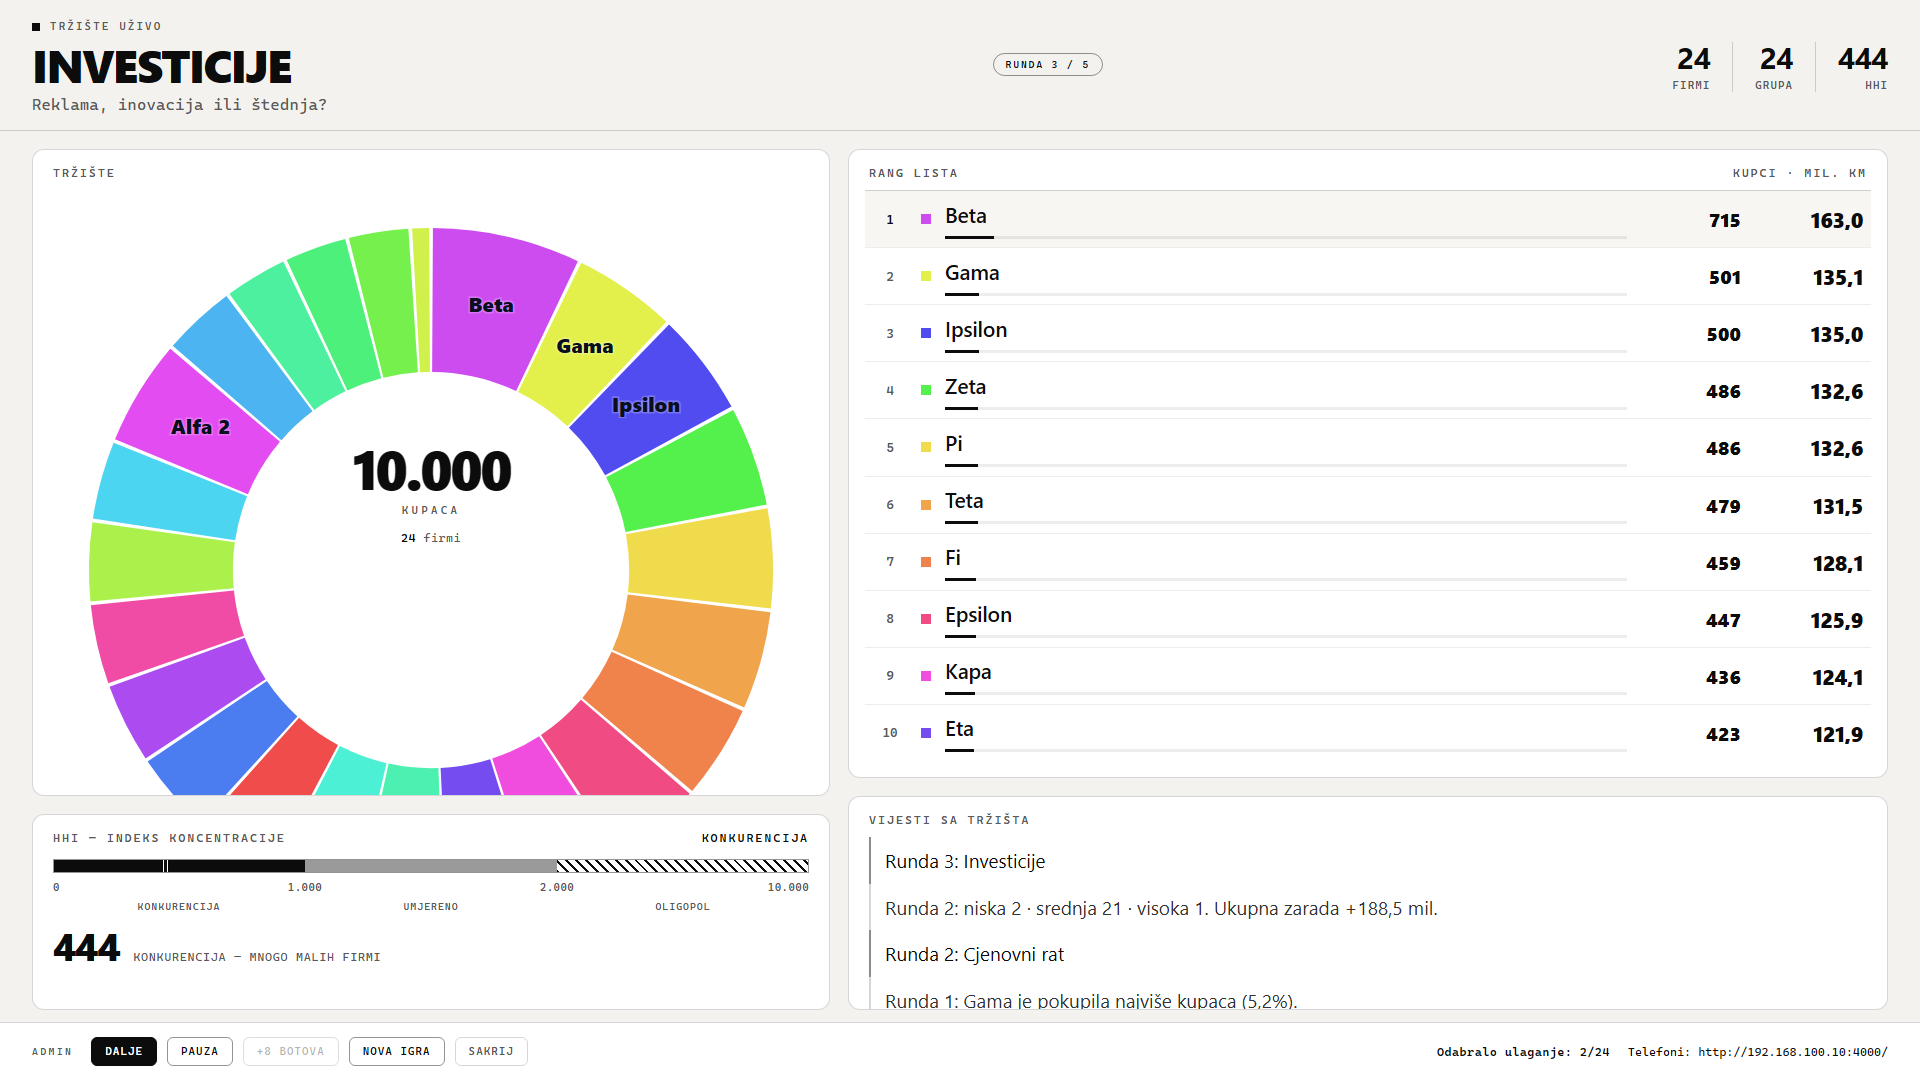
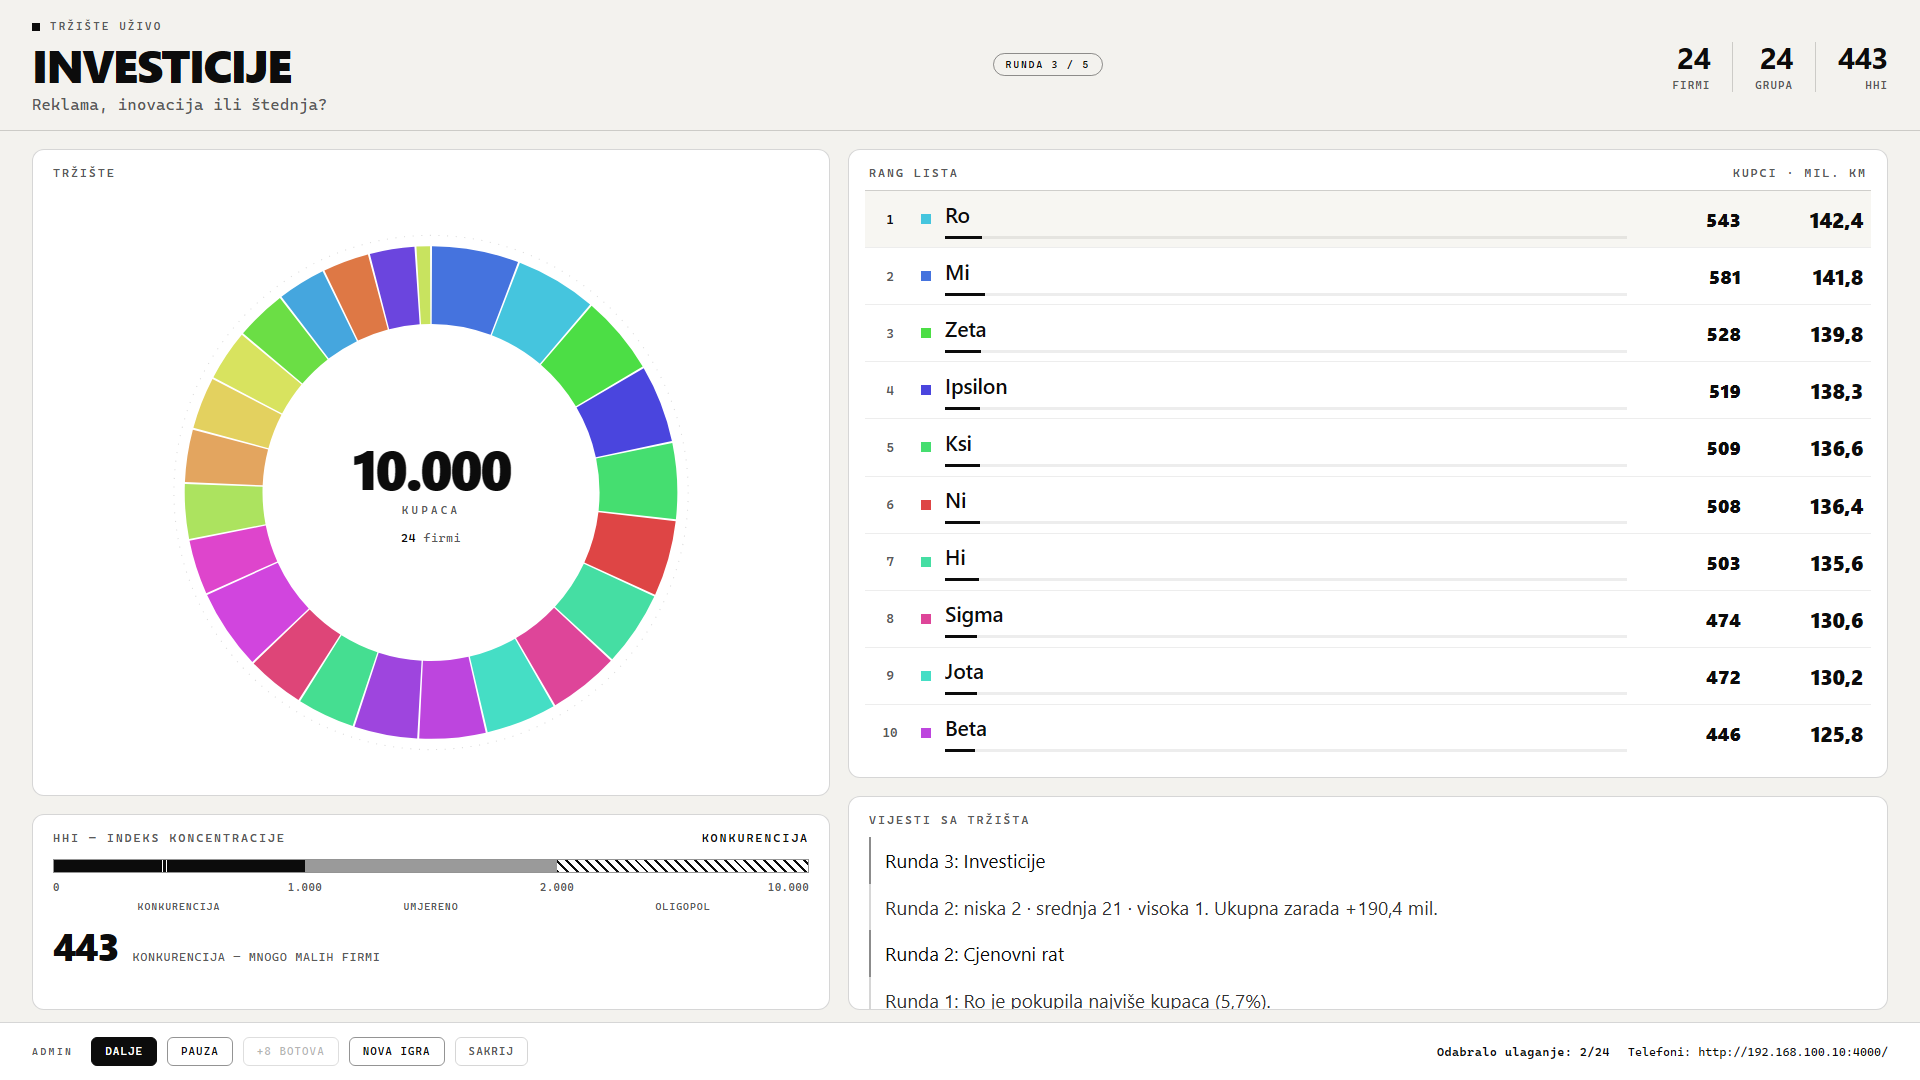
Graf: novi donut (tanji prsten, oznake van kruga, istaknut lider, animacija)

diff --git a/public/screen.js b/public/screen.js
@@ -62,6 +62,9 @@ function renderHeader() {
 }
 
 /* --------------------------------- PIE ----------------------------------- */
+const PIE = { parts: [], cur: new Map(), target: new Map(), start: 0, raf: 0, order: new Map(), seq: 0 };
+const PIE_MS = 520;
+
 function polar(cx, cy, r, a) {
   return [cx + r * Math.cos(a), cy + r * Math.sin(a)];
 }
@@ -75,61 +78,183 @@ function donutPath(cx, cy, rOut, rIn, a0, a1) {
     `L${x2.toFixed(2)} ${y2.toFixed(2)} A${rIn} ${rIn} 0 ${large} 0 ${x3.toFixed(2)} ${y3.toFixed(2)} Z`;
 }
 
-function renderPie() {
-  const svg = $('pie');
-  const total = S.meta.totalCustomers;
-  const cx = 280, cy = 280, rOut = 252, rIn = 146;
-  const gap = 0.011;
-  let parts = [];
+function hslRgb(color) {
+  const m = /hsl\(\s*([\d.]+)[ ,]+([\d.]+)%[ ,]+([\d.]+)%/.exec(color || '');
+  if (!m) return null;
+  const h = parseFloat(m[1]) / 360;
+  const s = parseFloat(m[2]) / 100;
+  const l = parseFloat(m[3]) / 100;
+  if (s === 0) return [l, l, l];
+  const q = l < 0.5 ? l * (1 + s) : l + s - l * s;
+  const p = 2 * l - q;
+  const f = t => {
+    t = (t + 1) % 1;
+    if (t < 1 / 6) return p + (q - p) * 6 * t;
+    if (t < 1 / 2) return q;
+    if (t < 2 / 3) return p + (q - p) * (2 / 3 - t) * 6;
+    return p;
+  };
+  return [f(h + 1 / 3), f(h), f(h - 1 / 3)];
+}
+function labelColor(color) {
+  const rgb = hslRgb(color);
+  if (!rgb) return '#0c0c0c';
+  const lum = 0.2126 * rgb[0] + 0.7152 * rgb[1] + 0.0722 * rgb[2];
+  return lum > 0.58 ? '#0c0c0c' : '#ffffff';
+}
 
+/* stabilan redoslijed kriški (ne skaču kad se udjeli mijenjaju) */
+function pieOrderIndex(id) {
+  if (!PIE.order.has(id)) PIE.order.set(id, PIE.seq++);
+  return PIE.order.get(id);
+}
+
+function pieParts() {
   if (S.phase === 'lobby') {
     const slots = 30;
+    const parts = [];
     for (let i = 0; i < slots; i++) {
       const p = S.players[i];
       parts.push({
+        id: 'slot' + i,
         share: 1 / slots,
-        color: p ? p.color : 'rgba(0,0,0,0.07)',
+        color: p ? p.color : '#ecebe6',
         name: p ? p.name : '',
         empty: !p,
       });
     }
-  } else {
-    const groups = S.groups.filter(g => g.customers > 0);
-    if (!groups.length) {
-      parts = [{ share: 1, color: 'rgba(0,0,0,0.07)', name: '', empty: true }];
-    } else {
-      parts = groups.map(g => ({ share: g.customers / total, color: g.color, name: g.name, members: g.members, sharePct: g.share }));
-    }
+    return parts;
   }
+  const groups = S.groups.filter(g => g.customers > 0);
+  if (!groups.length) return [{ id: 'empty', share: 1, color: '#ecebe6', name: '', empty: true }];
+  const total = S.meta.totalCustomers;
+  const parts = groups.map(g => ({
+    id: g.id,
+    share: g.customers / total,
+    color: g.color,
+    name: g.name,
+    members: g.members,
+    empty: false,
+  }));
+  parts.sort((a, b) => pieOrderIndex(a.id) - pieOrderIndex(b.id));
+  return parts;
+}
 
+function pieTick(now) {
+  const t = Math.min(1, (now - PIE.start) / PIE_MS);
+  const e = 1 - Math.pow(1 - t, 3);
+  for (const [id, to] of PIE.target) {
+    const from = PIE.cur.has(id) ? PIE.cur.get(id) : 0;
+    PIE.cur.set(id, from + (to - from) * e);
+  }
+  for (const id of [...PIE.cur.keys()]) if (!PIE.target.has(id)) PIE.cur.delete(id);
+  drawPie();
+  if (t < 1) {
+    PIE.raf = requestAnimationFrame(pieTick);
+  } else {
+    for (const [id, to] of PIE.target) PIE.cur.set(id, to);
+    PIE.raf = 0;
+    drawPie();
+  }
+}
+
+function drawPie() {
+  const svg = $('pie');
+  if (!PIE.parts.length) return;
+  const cx = 280, cy = 280, rOut = 228, rIn = 156, rFrame = 238;
+  const gap = 0.008;
   const out = [];
-  if (parts.length === 1) {
-    out.push(`<circle cx="${cx}" cy="${cy}" r="${(rOut + rIn) / 2}" fill="none" stroke="${parts[0].color}" stroke-width="${rOut - rIn}"></circle>`);
-  } else {
-    let a = -Math.PI / 2;
-    for (const part of parts) {
-      const span = part.share * Math.PI * 2;
-      const a0 = a + gap / 2;
-      const a1 = a + span - gap / 2;
-      if (a1 > a0) {
-        out.push(`<path class="slice" d="${donutPath(cx, cy, rOut, rIn, a0, a1)}" fill="${part.color}" opacity="${part.empty ? 0.55 : 1}"></path>`);
+  const trunc = (s, n) => (s.length > n ? s.slice(0, n - 1) + '…' : s);
+
+  out.push(`<circle cx="${cx}" cy="${cy}" r="${rFrame}" fill="none" stroke="rgba(0,0,0,.14)" stroke-width="1" stroke-dasharray="1 7"></circle>`);
+
+  let a = -Math.PI / 2;
+  let ta = -Math.PI / 2;
+  let leader = null, leaderA0 = 0, leaderA1 = 0;
+  const labels = [];
+
+  for (const part of PIE.parts) {
+    const cur = PIE.cur.has(part.id) ? PIE.cur.get(part.id) : part.share;
+    const target = PIE.target.has(part.id) ? PIE.target.get(part.id) : part.share;
+    const span = cur * Math.PI * 2;
+    const tspan = target * Math.PI * 2;
+    const a0 = a + gap / 2;
+    const a1 = a + span - gap / 2;
+
+    if (span > 0.0001) {
+      if (cur >= 0.9995) {
+        out.push(`<circle cx="${cx}" cy="${cy}" r="${(rOut + rIn) / 2}" fill="none" stroke="${part.color}" stroke-width="${rOut - rIn}"></circle>`);
+      } else if (a1 > a0) {
+        out.push(`<path d="${donutPath(cx, cy, rOut, rIn, a0, a1)}" fill="${part.color}" opacity="${part.empty ? 0.9 : 1}"></path>`);
       }
-      // ime unutar velikih komada
-      if (!part.empty && part.share >= 0.05) {
-        const mid = a + span / 2;
-        const [tx, ty] = polar(cx, cy, (rOut + rIn) / 2, mid);
-        const nm = part.name.length > 13 ? part.name.slice(0, 12) + '…' : part.name;
-        out.push(`<text x="${tx.toFixed(1)}" y="${ty.toFixed(1)}" fill="#08101f" font-size="15" font-weight="800" text-anchor="middle" dominant-baseline="middle" style="paint-order:stroke" stroke="rgba(255,255,255,.22)" stroke-width="2">${escapeXml(nm)}</text>`);
-        if (part.share >= 0.09 && part.share <= 0.45) {
-          out.push(`<text x="${tx.toFixed(1)}" y="${(ty + 17).toFixed(1)}" fill="rgba(8,16,31,.72)" font-size="12" font-weight="700" text-anchor="middle">${pct(part.share)}</text>`);
-        }
-      }
-      a += span;
+    }
+
+    if (!part.empty && S.phase !== 'lobby' && target >= 0.07 && target < 0.9995) {
+      labels.push({ name: part.name, share: target, mid: ta + tspan / 2 });
+    }
+    if (target > (leader ? leader.share : 0)) {
+      leader = { share: target, color: part.color };
+      leaderA0 = ta;
+      leaderA1 = ta + tspan;
+    }
+    a += span;
+    ta += tspan;
+  }
+
+  // istaknut lider: luk spolja
+  if (leader && S.phase !== 'lobby' && leader.share >= 0.1 && leader.share < 0.9995) {
+    const a0 = leaderA0 + gap;
+    const a1 = leaderA1 - gap;
+    const large = (a1 - a0) > Math.PI ? 1 : 0;
+    const [x0, y0] = polar(cx, cy, rOut + 6, a0);
+    const [x1, y1] = polar(cx, cy, rOut + 6, a1);
+    out.push(`<path d="M${x0.toFixed(2)} ${y0.toFixed(2)} A${rOut + 6} ${rOut + 6} 0 ${large} 1 ${x1.toFixed(2)} ${y1.toFixed(2)}" fill="none" stroke="#0c0c0c" stroke-width="3" stroke-linecap="round"></path>`);
+  }
+
+  // oznake van prstena, sa tankim vezama; najviše 6 najvećih
+  labels.sort((x, y) => y.share - x.share);
+  const shown = labels.slice(0, 6);
+  const items = shown.map(l => {
+    const cos = Math.cos(l.mid);
+    const side = cos >= 0 ? 1 : -1;
+    return {
+      ...l, side,
+      x: cx + side * (rFrame + 16),
+      y: cy + Math.sin(l.mid) * (rFrame + 14),
+    };
+  });
+  for (const side of [1, -1]) {
+    const list = items.filter(i => i.side === side).sort((p, q) => p.y - q.y);
+    for (let i = 0; i < list.length; i++) {
+      const minY = i === 0 ? 24 : list[i - 1].y + 38;
+      if (list[i].y < minY) list[i].y = minY;
+    }
+    const overflow = list.length ? list[list.length - 1].y - 536 : 0;
+    if (overflow > 0) for (const it of list) it.y -= overflow;
+    for (const it of list) {
+      const ax = cx + Math.cos(it.mid) * (rFrame + 4);
+      const ay = cy + Math.sin(it.mid) * (rFrame + 4);
+      out.push(`<line x1="${ax.toFixed(1)}" y1="${ay.toFixed(1)}" x2="${(it.x - it.side * 8).toFixed(1)}" y2="${(it.y - 6).toFixed(1)}" stroke="#0c0c0c" stroke-opacity="0.28" stroke-width="1"></line>`);
+      out.push(`<text x="${it.x.toFixed(1)}" y="${it.y.toFixed(1)}" fill="#0c0c0c" font-size="15" font-weight="700" text-anchor="${it.side > 0 ? 'start' : 'end'}" dominant-baseline="middle" style="font-family:var(--font)">${escapeXml(trunc(it.name, 15))}</text>`);
+      out.push(`<text x="${it.x.toFixed(1)}" y="${(it.y + 17).toFixed(1)}" fill="#5a5a5a" font-size="12" text-anchor="${it.side > 0 ? 'start' : 'end'}" dominant-baseline="middle" style="font-family:var(--mono)">${pct(it.share)}</text>`);
     }
   }
-  svg.innerHTML = out.join('');
 
-  const shownCustomers = S.phase === 'lobby' ? total : S.totals.customers;
+  svg.innerHTML = out.join('');
+}
+function renderPie() {
+  PIE.parts = pieParts();
+  PIE.target = new Map(PIE.parts.map(p => [p.id, p.share]));
+  for (const [id, s] of PIE.target) if (!PIE.cur.has(id)) PIE.cur.set(id, 0);
+  if (SNAP) {
+    for (const [id, s] of PIE.target) PIE.cur.set(id, s);
+    drawPie();
+  } else {
+    PIE.start = performance.now();
+    if (!PIE.raf) PIE.raf = requestAnimationFrame(pieTick);
+  }
+
+  const shownCustomers = S.phase === 'lobby' ? S.meta.totalCustomers : S.totals.customers;
   $('pieBig').textContent = fmt0(shownCustomers);
   const nGroups = S.phase === 'lobby' ? S.totals.players : S.totals.groups;
   const nPlayers = S.totals.players;
@@ -137,7 +262,6 @@ function renderPie() {
     ? `<b>${fmt0(nPlayers)}</b> ${nPlayers === 1 ? 'firma' : 'firmi'}`
     : `<b>${fmt0(nGroups)}</b> ${nGroups === 1 ? 'grupa' : 'grupe'} · <b>${fmt0(nPlayers)}</b> firmi`;
 }
-
 function escapeXml(s) {
   return String(s).replace(/[<>&"']/g, c => ({ '<': '&lt;', '>': '&gt;', '&': '&amp;', '"': '&quot;', "'": '&apos;' }[c]));
 }

diff --git a/public/common.js b/public/common.js
@@ -106,8 +106,11 @@ function pollStream(url, onState, onStatus, interval) {
 async function startStream(url, onState, onStatus) {
   if (SNAP) {
     const st = syncGet(url.replace('/api/events', '/api/state'));
-    if (st) { if (onStatus) onStatus('online'); onState(st); }
-    else if (onStatus) onStatus('offline');
+    // odloži prvi render da se modul u potpunosti učita (izbjegava TDZ)
+    setTimeout(() => {
+      if (st) { if (onStatus) onStatus('online'); onState(st); }
+      else if (onStatus) onStatus('offline');
+    }, 0);
     return { close() { } };
   }
   // Provjeri da li server radi kao serverless (Vercel) — tada nema SSE.
@@ -124,7 +127,7 @@ async function startStream(url, onState, onStatus) {
     es = new EventSource(url);
     es.onopen = () => { if (onStatus) onStatus('online'); };
     es.onmessage = e => {
-      try { onState(JSON.parse(e.data)); } catch (err) { /* ignore */ }
+      try { onState(JSON.parse(e.data)); } catch (err) { console.error(err); }
     };
     es.onerror = () => {
       if (onStatus) onStatus('offline');

diff --git a/server.js b/server.js
@@ -86,8 +86,10 @@ const rint = (a, b) => a + Math.floor(Math.random() * (b - a + 1));
 const pick = arr => arr[Math.floor(Math.random() * arr.length)];
 
 function colorFor(i) {
-  const h = Math.round((i * 137.508 + 12) % 360);
-  return `hsl(${h} 85% 62%)`;
+  const h = (i * 137.508 + 12) % 360;
+  // ujednačena zasićenost; žuti dio spektra malo svjetliji da tekst bude čitljiv
+  const l = (h >= 30 && h <= 85) ? 63 : 57;
+  return `hsl(${h.toFixed(0)} 70% ${l}%)`;
 }
 
 /* ------------------------------ STANJE IGRE ------------------------------- */

diff --git a/public/screen.css b/public/screen.css
@@ -149,11 +149,12 @@
   flex: 1 1 auto;
   min-height: 0;
   position: relative;
+  overflow: hidden;
   display: grid;
   place-items: center;
   padding: 0 18px 22px;
 }
-#pie { height: 100%; width: auto; max-width: 100%; max-height: 100%; overflow: visible; }
+#pie { position: absolute; inset: 0; width: 100%; height: 100%; overflow: visible; }
 .pie-center {
   position: absolute;
   inset: 0;
